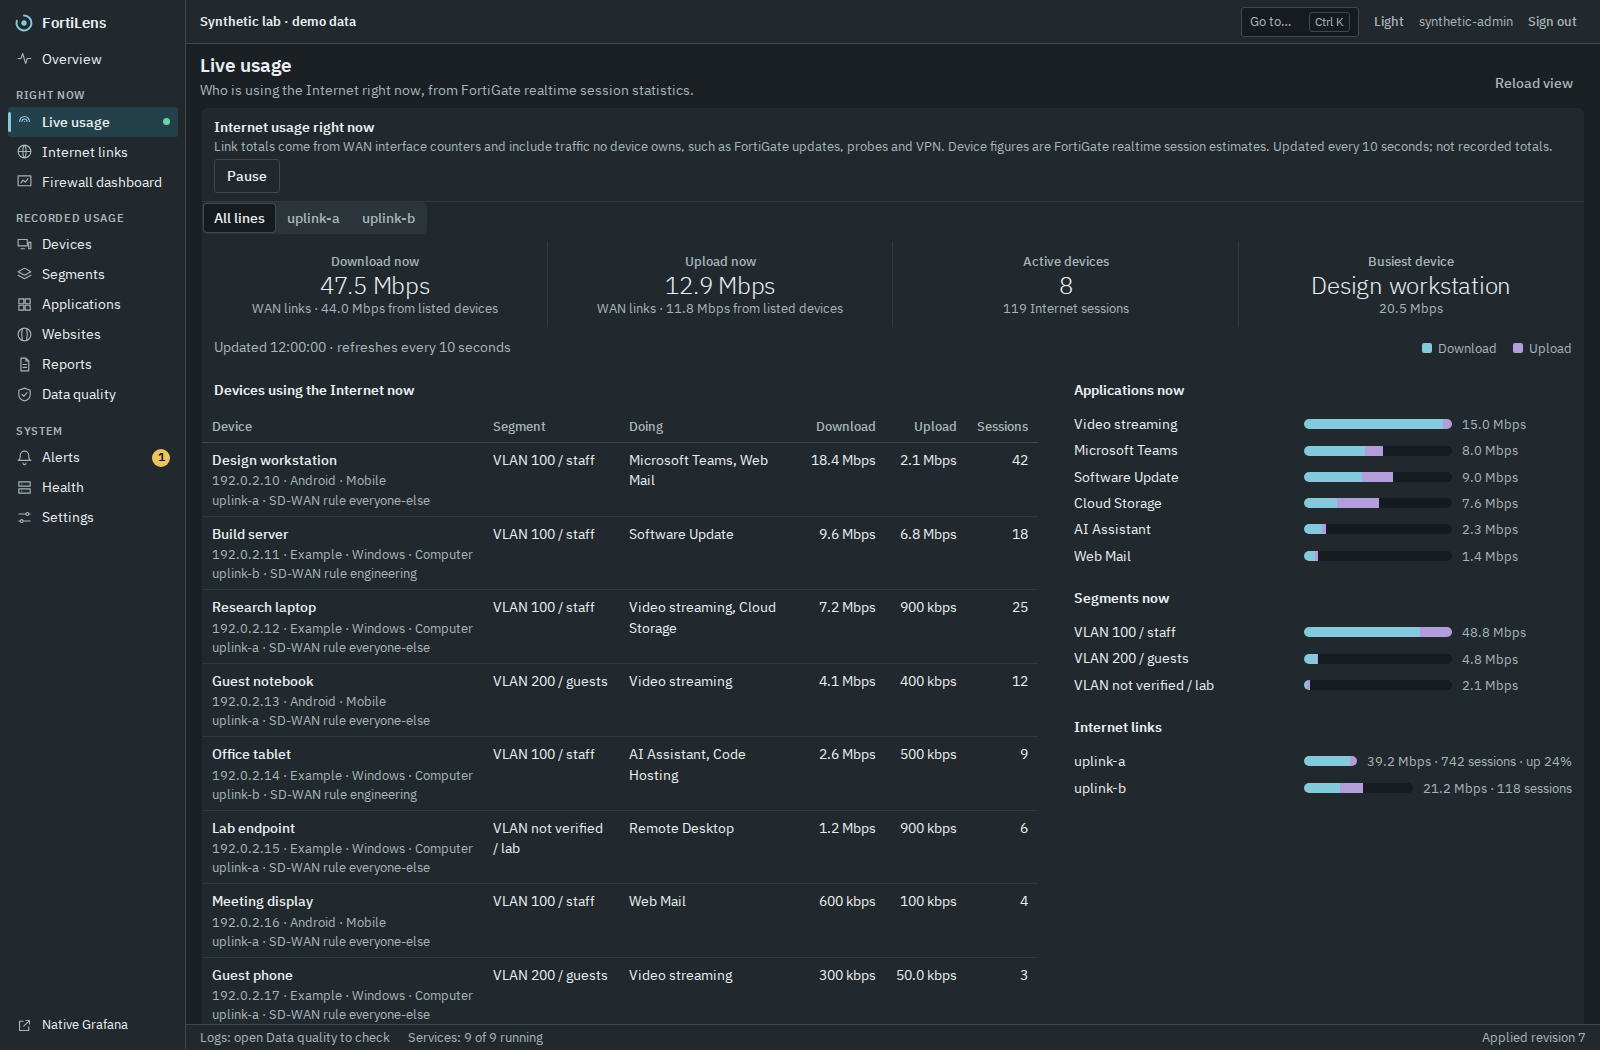
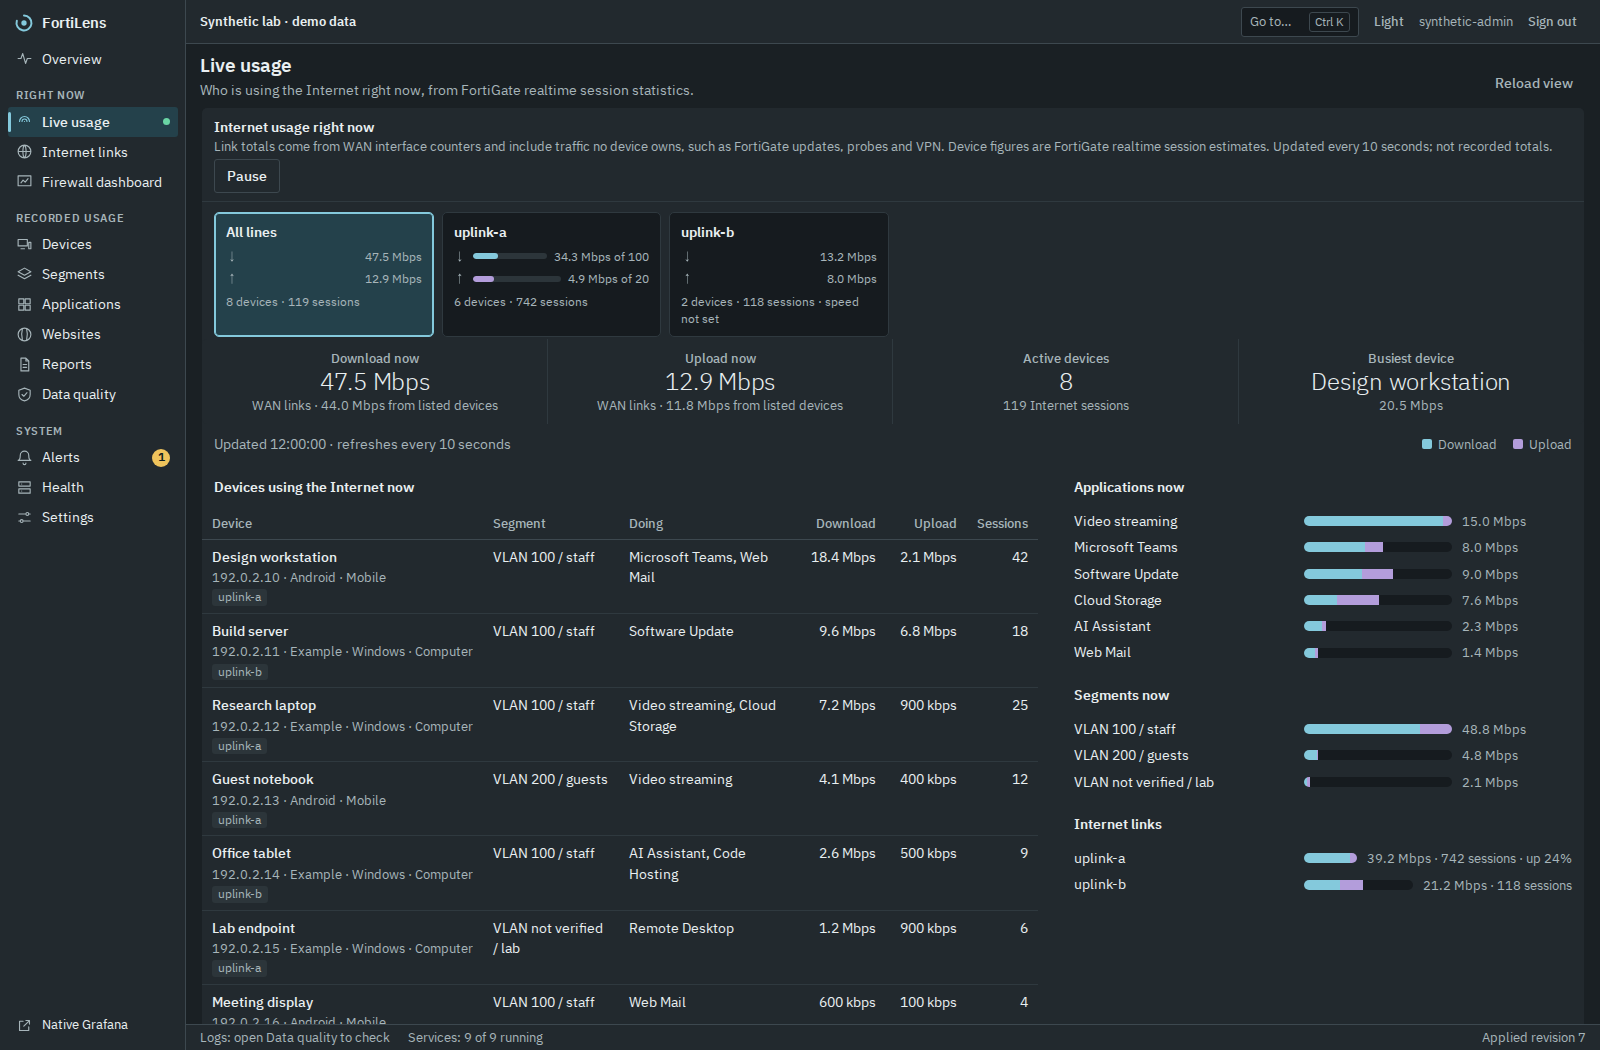
Recapture Live usage and Internet links, and describe the line tiles

diff --git a/docs/getting-started/CONSOLE_GUIDE.md b/docs/getting-started/CONSOLE_GUIDE.md
@@ -58,17 +58,18 @@ Who is using the Internet this minute. It refreshes every 10 seconds.
 - **Device, application and segment figures** are the FortiGate's realtime
   estimates for up to 500 sources. They are estimates, not recorded totals.
 - Under each total, the page shows how much of it comes from the listed devices.
-- **Choose a line** above the totals to see only that line: its download and
-  upload now, how full it is (when its speed is set in Settings → Network
-  Interfaces), the devices on it with what each takes from that line, and the
-  busiest one. **All lines** shows each device's total, with the lines it uses
-  under its name.
-- Each device also names the SD-WAN rules that can carry its traffic, in the
-  order the FortiGate checks them, matched on the device's address and MAC
-  address now: under its name for all lines, and with each rule's lines in
-  **Share of the line · SD-WAN rule** for a chosen line. A rule limited to some destinations, such as
-  Office 365, takes only part of the traffic and is followed by the rule for
-  the rest. "maybe" marks a rule whose source cannot be judged from an address
+- **Line tiles** above the totals show each line's download and upload now,
+  with a bar for how full each is when its speed is set in Settings → Network
+  Interfaces (amber from 70%, red and "Full" from 90%), and its devices and
+  sessions. Select a tile to see only that line: the devices on it, each rate
+  with a bar for its share of the line, and the SD-WAN rule. **All lines** shows
+  each device's total, with the lines it uses under its name.
+- The **SD-WAN rule** column names the rules that can carry the device's
+  traffic, in the order the FortiGate checks them, matched on the device's
+  address and MAC address now, for example "engineering → uplink-b". Point at a
+  device's lines in **All lines** to see them there. A rule limited to some
+  destinations, such as Office 365, takes only part of the traffic and is
+  followed ("then") by the rule for the rest. "maybe" marks a rule whose source cannot be judged from an address
   (for example an FQDN object). The FortiGate does not report which rule one
   session used.
 

diff --git a/CHANGELOG.md b/CHANGELOG.md
@@ -4,20 +4,21 @@
 
 ### Who uses each line
 
-- **Live usage** has a line chooser. Choosing a line shows its download and
-  upload now and how full it is against the speed set in Settings, with a
-  "Full" mark at 90%, the devices on it with what each takes from that line and
-  its sessions, and the busiest device. **All lines** shows each device's total
-  and the lines it uses. Before, the page showed only each device's total, so a
-  full line and the devices filling it had to be worked out from the logs.
+- **Live usage** opens with a tile per line: download and upload now, a bar for
+  how full each is against the speed set in Settings (amber from 70%, red and
+  "Full" from 90%), and its devices and sessions. Selecting a tile shows only
+  that line's devices, each rate with a bar for its share of the line, and the
+  SD-WAN rule. **All lines** shows each device's total and the lines it uses.
+  Before, the page showed only each device's total, so a full line and the
+  devices filling it had to be worked out from the logs.
 - **Internet links** has **Who used each line**: for one line and the last
   15 minutes, hour, 3 hours or 12 hours, the devices whose recorded traffic left
-  through it, with each one's share of the line's upload and download, and the
-  line's average rate against its speed. Before, this was shown only for an
-  incident.
+  through it, with bars for each one's share of the line's upload and download,
+  and the line's totals and average rate against its speed. Before, this was
+  shown only for an incident.
 - Both, and the devices of an incident, name the SD-WAN rules that can carry
   each device's traffic, in the order the FortiGate checks them, for example
-  "engineering: uplink-b". They are matched on the device's address and MAC address
+  "engineering → uplink-b". They are matched on the device's address and MAC address
   against the rules' source objects. A rule limited to some destinations, such
   as Office 365, is listed before the rule that takes the rest. A source that
   cannot be judged from an address, such as an FQDN object, is marked "maybe".
